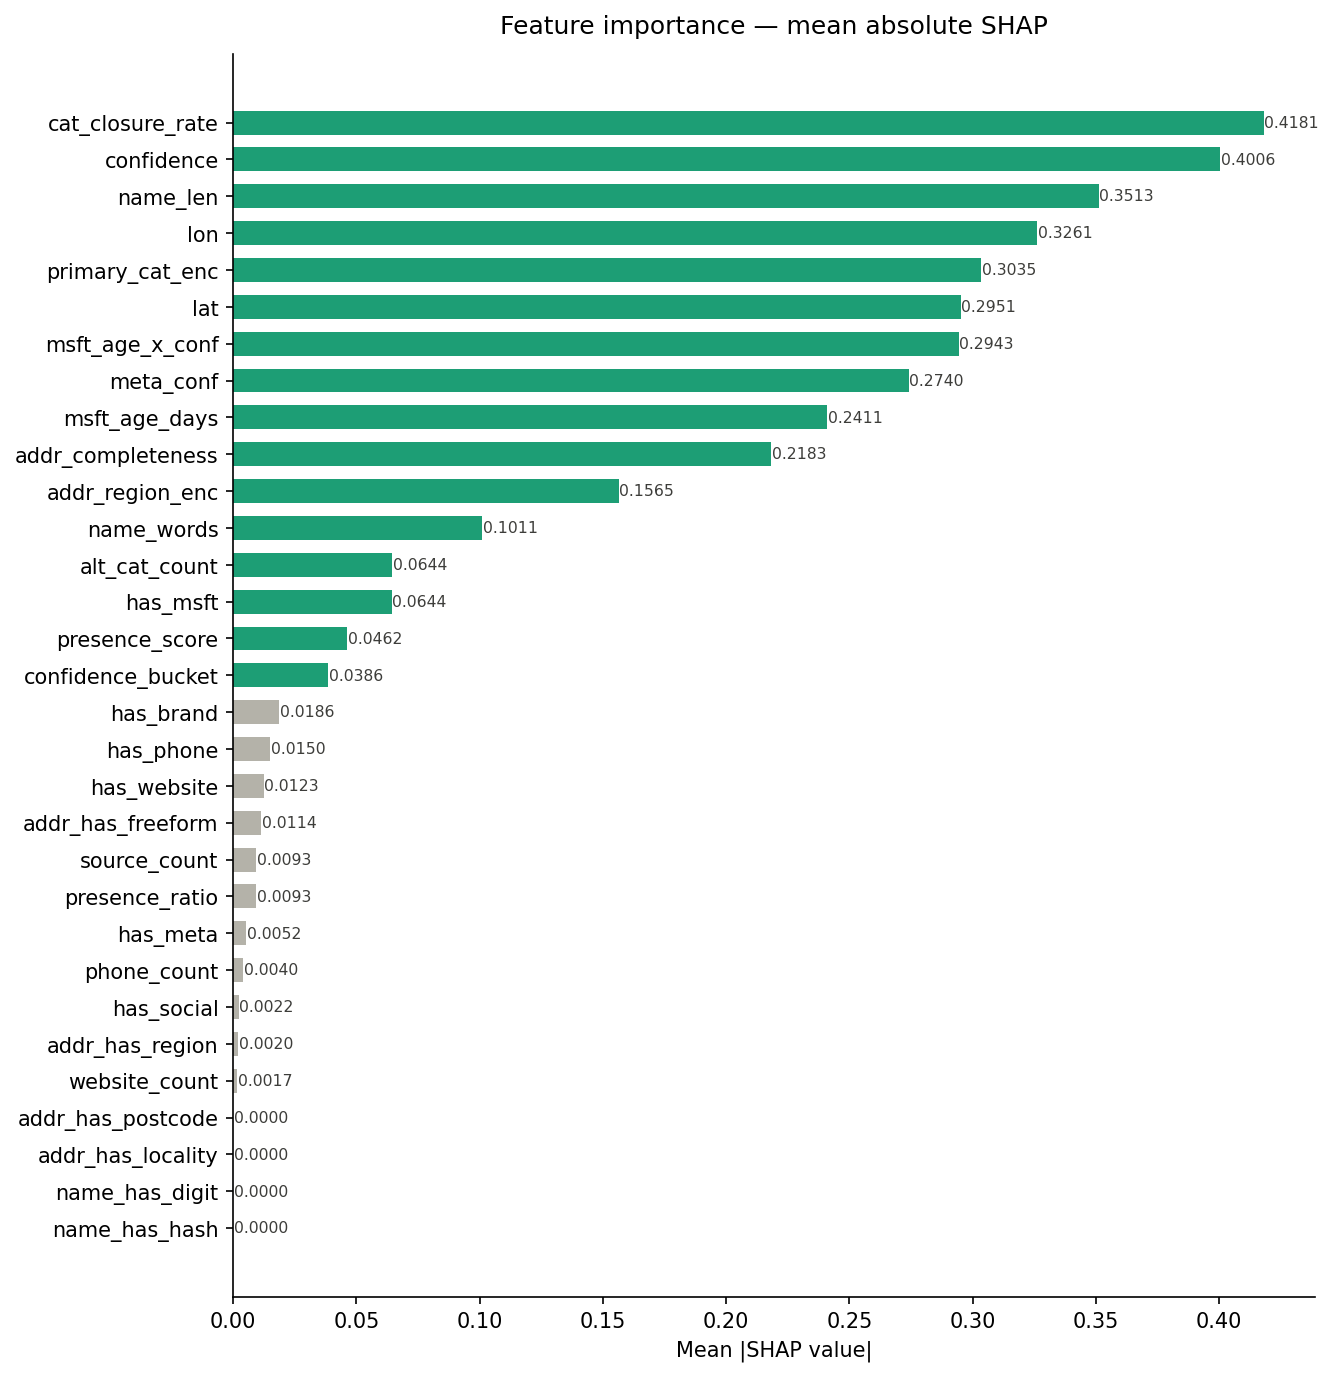
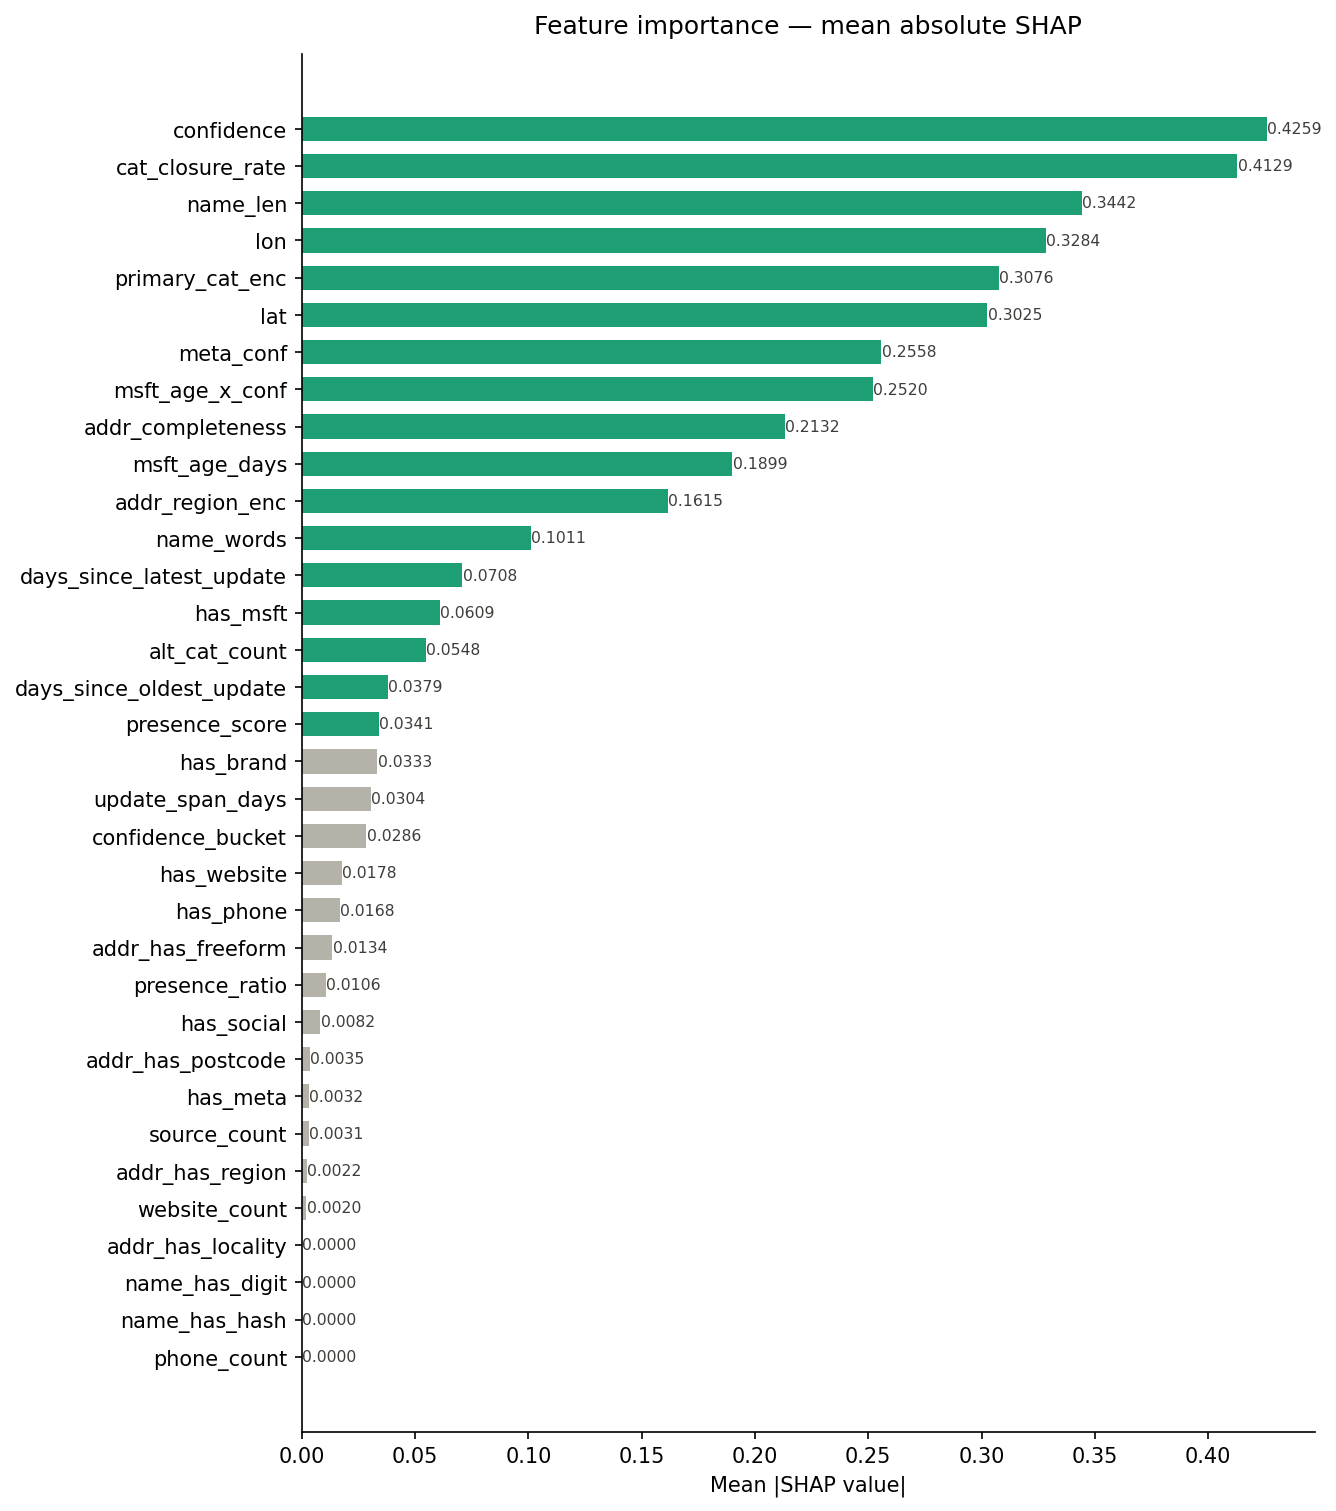
engineered additional features

diff --git a/train_competition.py b/train_competition.py
@@ -31,6 +31,7 @@ import matplotlib
 
 matplotlib.use("Agg")
 import matplotlib.pyplot as plt
+from sklearn.calibration import CalibratedClassifierCV
 
 warnings.filterwarnings("ignore")
 
@@ -105,6 +106,24 @@ def parse_geom(wkb_bytes):
         return None, None
 
 
+def extract_update_times(source_list):
+    if not isinstance(source_list, (list, np.ndarray)):
+        return []
+
+    dates = []
+
+    for s in source_list:
+        dt = s.get("update_time")
+
+        if dt is not None:
+            try:
+                dates.append(pd.to_datetime(dt, utc=True))
+            except Exception:
+                pass
+
+    return dates
+
+
 def engineer_features(frame: pd.DataFrame) -> pd.DataFrame:
     """All feature engineering in one place — call on train and val separately."""
     f = frame.copy()
@@ -151,6 +170,24 @@ def engineer_features(frame: pd.DataFrame) -> pd.DataFrame:
     )
     # Interaction: old MSFT record + low meta confidence = strong closure signal
     f["msft_age_x_conf"] = f["msft_age_days"].clip(lower=0) * (1 - f["confidence"])
+
+    snapshot = pd.Timestamp("2025-02-24", tz="UTC")
+
+    f["all_update_times"] = f["sources"].apply(extract_update_times)
+
+    f["latest_update"] = f["all_update_times"].apply(
+        lambda x: max(x) if len(x) > 0 else pd.NaT
+    )
+
+    f["oldest_update"] = f["all_update_times"].apply(
+        lambda x: min(x) if len(x) > 0 else pd.NaT
+    )
+
+    f["days_since_latest_update"] = (snapshot - f["latest_update"]).dt.days.fillna(9999)
+
+    f["days_since_oldest_update"] = (snapshot - f["oldest_update"]).dt.days.fillna(9999)
+
+    f["update_span_days"] = (f["latest_update"] - f["oldest_update"]).dt.days.fillna(0)
 
     # ── Contact / presence ────────────────────────────────────────────────────
     f["has_phone"] = f["phones"].apply(lambda x: int(safe_len(x) > 0))
@@ -209,6 +246,53 @@ def engineer_features(frame: pd.DataFrame) -> pd.DataFrame:
         )
     )
     f["alt_cat_count"] = f["alt_cats"].apply(len)
+
+    f["missing_websites"] = f["websites"].apply(lambda x: int(safe_len(x) == 0))
+    f["missing_phones"] = f["phones"].apply(lambda x: int(safe_len(x) == 0))
+    f["missing_socials"] = f["socials"].apply(lambda x: int(safe_len(x) == 0))
+    f["missing_addresses"] = f["addresses"].apply(lambda x: int(safe_len(x) == 0))
+    f["missing_categories"] = f["categories"].isna().astype(int)
+
+    # Total metadata completeness
+    f["missing_count"] = (
+        f["missing_websites"]
+        + f["missing_phones"]
+        + f["missing_socials"]
+        + f["missing_addresses"]
+        + f["missing_categories"]
+    )
+
+    # f["source_dataset_count"] = f["sources"].apply(
+    #     lambda x: (
+    #         len(set(s["dataset"] for s in x))
+    #         if isinstance(x, (list, np.ndarray))
+    #         else 0
+    #     )
+    # )
+
+    # f["has_many_sources"] = (f["source_count"] >= 3).astype(int)
+
+    # stale + missing presence
+    f["stale_no_website"] = (
+        (f["days_since_latest_update"] > 365) & (f["has_website"] == 0)
+    ).astype(int)
+
+    # low confidence + no phone
+    f["low_conf_no_phone"] = ((f["confidence"] < 0.7) & (f["has_phone"] == 0)).astype(
+        int
+    )
+
+    # weak metadata + stale
+    f["weak_presence_old"] = (
+        (f["presence_score"] <= 1) & (f["days_since_latest_update"] > 365)
+    ).astype(int)
+
+    f["lat_round"] = f["lat"].round(1)
+    f["lon_round"] = f["lon"].round(1)
+
+    density = f.groupby(["lat_round", "lon_round"]).size().rename("geo_density")
+
+    f = f.merge(density, on=["lat_round", "lon_round"], how="left")
 
     return f
 
@@ -279,6 +363,21 @@ STATIC_FEATURES = [
     "alt_cat_count",
     "primary_cat_enc",
     "addr_region_enc",
+    # "missing_websites",
+    # "missing_phones",
+    # "missing_socials",
+    # "missing_addresses",
+    # "missing_categories",
+    # "missing_count",
+    "days_since_latest_update",
+    "days_since_oldest_update",
+    "update_span_days",
+    # "source_dataset_count",
+    # "has_many_sources",
+    # "stale_no_website",
+    # "low_conf_no_phone",
+    # "weak_presence_old",
+    # "geo_density",
 ]
 
 # Will add OOF target-encoded cat_closure_rate in step 4
@@ -374,15 +473,18 @@ for fold, (tr_idx, va_idx) in enumerate(skf.split(X_train_static, y_train), 1):
         X_va["external_signal"] = ext_va
 
     # ── Train ─────────────────────────────────────────────────────────────────
-    model = xgb.XGBClassifier(**MODEL_PARAMS)
-    model.fit(
+    base_model = xgb.XGBClassifier(**MODEL_PARAMS)
+
+    base_model.fit(
         X_tr,
         y_train[tr_idx],
         eval_set=[(X_va, y_train[va_idx])],
         verbose=False,
     )
 
-    probs = model.predict_proba(X_va)[:, 1]
+    # ── Probability calibration ─────────────────────────────
+
+    probs = base_model.predict_proba(X_va)[:, 1]
     oof_probs[va_idx] = probs
 
     # MCC across thresholds
@@ -397,7 +499,7 @@ for fold, (tr_idx, va_idx) in enumerate(skf.split(X_train_static, y_train), 1):
         if HAS_EXTERNAL:
             # External signal not available for val — use 0.5 (neutral)
             X_val_fold["external_signal"] = 0.5
-        val_probs += model.predict_proba(X_val_fold)[:, 1] / args.n_folds
+        val_probs += calibrated_model.predict_proba(X_val_fold)[:, 1] / args.n_folds
 
     fold_best = max(fold_mcc_by_threshold, key=lambda t: fold_mcc_by_threshold[t][-1])
     print(
@@ -457,9 +559,14 @@ if HAS_EXTERNAL:
 ALL_FEATURES = list(X_final.columns)
 print(f"    Total features: {len(ALL_FEATURES)}")
 
-final_model = xgb.XGBClassifier(**MODEL_PARAMS)
-final_model.fit(X_final, y_train, verbose=False)
-final_model.save_model(str(OUT / "competition_model.json"))
+base_final_model = xgb.XGBClassifier(**MODEL_PARAMS)
+
+base_final_model.fit(X_final, y_train, verbose=False)
+
+final_model = CalibratedClassifierCV(base_final_model, method="isotonic", cv=5)
+
+final_model.fit(X_final, y_train)
+base_final_model.save_model(str(OUT / "competition_model.json"))
 print(f"    Model saved → {OUT}/competition_model.json")
 
 # ── Submission CSV ─────────────────────────────────────────────────────────────
@@ -515,7 +622,7 @@ plt.close()
 print(f"    Saved → {OUT}/mcc_threshold_curve.png")
 
 # Plot B — SHAP feature importance
-explainer = shap.TreeExplainer(final_model)
+explainer = shap.TreeExplainer(base_final_model)
 shap_vals = explainer.shap_values(X_final)
 mean_shap = pd.Series(np.abs(shap_vals).mean(axis=0), index=ALL_FEATURES).sort_values(
     ascending=True

diff --git a/tempCodeRunnerFile.py b/tempCodeRunnerFile.py
@@ -1,0 +1,3 @@
+website",
+    # "low_conf_no_phone",
+    # "weak_presence_old",